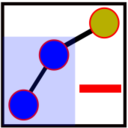
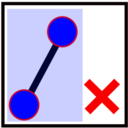
Add a small function - delete the whole branch

diff --git a/src/ManipulateCPs/ManipulateCPs.cpp b/src/ManipulateCPs/ManipulateCPs.cpp
@@ -74,11 +74,27 @@ void ManipulateCPs::AddOneCp(){
 
 }
 
-void ManipulateCPs::DeleteLastTwoCPs(Node_ *CurrNode)
+void ManipulateCPs::DeleteTheBranch(Node_ *CurrPressedNode)
 {
-  int CurrNodeIndex_m = CurrNode->getIndexM();
+  // int CurrNodeIndex_m = CurrNode->getIndexM();
+  // //1. update CPlist - erase the branch
+  // //CPlist.erase(CPlist.begin() + CurrNodeIndex_m);//The size will decrease
+  // vector<Vector3<float>> *changedBranch;
+  // changedBranch = &(CPlist[CurrNodeIndex_m]);
+  // changedBranch->clear(); //This size will not change and CPlist[CurrNodeIndex_m] will be empty.
+
+  // //2. change sliders
+  // emit PressNode(0, 0); 
+
+  // //3.remove two points in the scene.
+  // scene->removeItem(CurrNode);
+  // Node_ *forewardNode = CurrNode->getPrevNode();
+  // if (forewardNode != nullptr) scene->removeItem(forewardNode);
+  // Node_ *backwardNode = CurrNode->getNextNode();
+  // if (backwardNode != nullptr) scene->removeItem(backwardNode);
+
+  int CurrNodeIndex_m = CurrPressedNode->getIndexM();
   //1. update CPlist - erase the branch
-  //CPlist.erase(CPlist.begin() + CurrNodeIndex_m);//The size will decrease
   vector<Vector3<float>> *changedBranch;
   changedBranch = &(CPlist[CurrNodeIndex_m]);
   changedBranch->clear(); //This size will not change and CPlist[CurrNodeIndex_m] will be empty.
@@ -86,37 +102,29 @@ void ManipulateCPs::DeleteLastTwoCPs(Node_ *CurrNode)
   //2. change sliders
   emit PressNode(0, 0); 
 
-  //3.remove two points in the scene.
-  scene->removeItem(CurrNode);
-  Node_ *forewardNode = CurrNode->getPrevNode();
-  if (forewardNode != nullptr) scene->removeItem(forewardNode);
-  Node_ *backwardNode = CurrNode->getNextNode();
-  if (backwardNode != nullptr) scene->removeItem(backwardNode);
+  //3.remove all points and edges in the branch.
+  scene->removeItem(CurrPressedNode);
+  removeTwoEdgeOfNode(CurrPressedNode);
 
-  //4.remove edges of CurrNode
-  QVector<Edge*> EdgeList = CurrNode->getEdgeList();
-  for (Edge *edge : qAsConst(EdgeList)){
-    scene->removeItem(edge);
-    //does WholeEdgeList need remove edge? Seems doesn't.
+  Node_ *forewardNode = CurrPressedNode->getPrevNode();
+  while(forewardNode != nullptr){
+    scene->removeItem(forewardNode);
+    removeTwoEdgeOfNode(forewardNode);
+    forewardNode = forewardNode->getPrevNode();
   }
-
+  Node_ *backwardNode = CurrPressedNode->getNextNode();
+  while(backwardNode != nullptr){
+    scene->removeItem(backwardNode);
+    removeTwoEdgeOfNode(backwardNode);
+    backwardNode = backwardNode->getNextNode();
+  }
 }
 
 void ManipulateCPs::deleteCurrCp(){
   //update CPlist
   int CurrCPNum = CPlist[CurrNodeIndex_m][0][0] - 1;
-  /*if(CurrCPNum < 2){
-    QMessageBox::StandardButton reply;
-    reply = QMessageBox::question(this, "For your information", 
-    "There are only two CPs for this branch, Do you want to delete both of them?",
-                                  QMessageBox::Yes|QMessageBox::No);
-    if (reply == QMessageBox::Yes) {
-      //delete both of the two CPs, i.e., delete this branch
-      DeleteLastTwoCPs(CurrPressedNode);
-    } 
-    //else do nothing.
-  }*/
-  if(CurrCPNum == 0) DeleteLastTwoCPs(CurrPressedNode);
+ 
+  if(CurrCPNum == 0) DeleteTheBranch(CurrPressedNode);//only has one CP
   else
   {
     CPlist[CurrNodeIndex_m][0][0] = CurrCPNum;
@@ -146,12 +154,7 @@ void ManipulateCPs::deleteCurrCp(){
     emit PressNode(0, CPlist[CurrNodeIndex_m][0][1]); 
 
     scene->removeItem(CurrPressedNode);
-    //remove two edges of CurrPressedNode
-    QVector<Edge*> EdgeList = CurrPressedNode->getEdgeList();
-    for (Edge *edge : qAsConst(EdgeList)){
-      scene->removeItem(edge);
-      //does WholeEdgeList need remove edge? Seems doesn't.
-    }
+    removeTwoEdgeOfNode(CurrPressedNode);
     //add new edge and update prev/next node.
     Node_ *CurrPrevN = CurrPressedNode->getPrevNode();
     Node_ *CurrNextN = CurrPressedNode->getNextNode();
@@ -189,7 +192,7 @@ void ManipulateCPs::deleteMultiCp()
         int CurrCPNum = CPlist[CurrNodeIndex_m][0][0];
       
         if(CurrCPNum < 3)
-          DeleteLastTwoCPs(CurrPoint); //delete both of the two CPs, i.e., delete this branch
+          DeleteTheBranch(CurrPoint); //delete both of the two CPs, i.e., delete this branch
       
       }
         
@@ -201,6 +204,18 @@ void ManipulateCPs::deleteMultiCp()
   
 }
 
+void ManipulateCPs::deleteABranch()
+{
+  DeleteTheBranch(CurrPressedNode);
+}
+void ManipulateCPs::removeTwoEdgeOfNode (Node_ *CurrNode)
+{
+  QVector<Edge*> EdgeList = CurrNode->getEdgeList();
+  for (Edge *edge : qAsConst(EdgeList)){
+    scene->removeItem(edge);
+    //does WholeEdgeList need remove edge? Seems doesn't.
+  }
+}
 void ManipulateCPs::TranspCurrPoint(Node_ *node){
   
   MultiCPsDelete.push_back(node);

diff --git a/src/ManipulateCPs/CpViewer.cpp b/src/ManipulateCPs/CpViewer.cpp
@@ -39,6 +39,11 @@ CpViewer::CpViewer(int W, int H, QWidget *parent)
   DeleteMultiCPsBtn->setIconSize(QSize{32, 32}); 
   connect(DeleteMultiCPsBtn, &QPushButton::clicked, this, &CpViewer::DeleteMultiCPsBtn_press);
 
+  QPushButton *DeleteABranchBtn = new QPushButton { QIcon{":/images/DeleteABranch_icon.png"}, tr(""), this};
+  DeleteABranchBtn->setIconSize(QSize{32, 32}); 
+  connect(DeleteABranchBtn, &QPushButton::clicked, this, &CpViewer::DeleteABranchBtn_press);
+
+
   QPushButton *rotateCPsBtn = new QPushButton { QIcon{":/images/rotate_CPs.png"}, tr(""), this};
   rotateCPsBtn->setIconSize(QSize{32, 32}); 
   connect(rotateCPsBtn, &QPushButton::clicked, this, &CpViewer::rotateCPsBtn_press);
@@ -47,14 +52,14 @@ CpViewer::CpViewer(int W, int H, QWidget *parent)
   QPushButton *skelRecBtn = new QPushButton();
   skelRecBtn->setText("Reconstruct\n CC");
   //QPushButton *skelRecBtn = new QPushButton { QIcon{":/images/Skel_icon.png"}, tr(""), this};
-  skelRecBtn->setFixedSize(QSize{100, 38});//?
+  skelRecBtn->setFixedSize(QSize{95, 38});//?
   connect(skelRecBtn, &QPushButton::clicked, this, &CpViewer::ReconBtn_press);
   
 
   QPushButton *skelRecBtn_ = new QPushButton();
   skelRecBtn_->setText("Reconstruct\n Image");
   //QPushButton *skelRecBtn_ = new QPushButton { QIcon{":/images/Skel_icon.png"}, tr(""), this};
-  skelRecBtn_->setFixedSize(QSize{100, 38});//?
+  skelRecBtn_->setFixedSize(QSize{95, 38});//?
   connect(skelRecBtn_, &QPushButton::clicked, this, &CpViewer::ReconImageBtn_press);
 
   btnLayout->addWidget(showCPsBtn);
@@ -62,6 +67,7 @@ CpViewer::CpViewer(int W, int H, QWidget *parent)
   btnLayout->addWidget(AddCPsBtn);
   btnLayout->addWidget(DeleteCPsBtn);
   btnLayout->addWidget(DeleteMultiCPsBtn);
+  btnLayout->addWidget(DeleteABranchBtn);
   btnLayout->addWidget(rotateCPsBtn);
   btnLayout->addWidget(skelRecBtn);
   btnLayout->addWidget(skelRecBtn_);
@@ -141,6 +147,10 @@ void CpViewer::DeleteCPsBtn_press()
 void CpViewer::DeleteMultiCPsBtn_press()
 {
   manipulate_CPs->deleteMultiCp();
+}
+void CpViewer::DeleteABranchBtn_press()
+{
+  manipulate_CPs->deleteABranch();
 }
 void CpViewer::rotateCPsBtn_press()
 {

diff --git a/src/dmdProcess.cpp b/src/dmdProcess.cpp
@@ -730,8 +730,9 @@ int dmdProcess::computeSkeletons(float saliency_threshold, float hausdorff, FIEL
 }
 
 
-void dmdProcess::Init_indexingSkeletons(){
-    
+void dmdProcess::Init_indexingSkeletons(float SalVal, float HDval){
+    SalValForTree = SalVal;
+    HDvalForTree = HDval;
     float *c = OriginalImage->data();
     float *end = OriginalImage->data() + nPix;
     int min_elem = 1e5;
@@ -764,7 +765,7 @@ int dmdProcess::indexingSkeletons(FIELD<float> * CC, int intensity, int index){
     int seq = 0, x, y; 
     int SkelPoints = 0;
     
-    skelImp = computeSkeleton(intensity, CC, 0.5);//salThres needs to be improved, set by users.
+    skelImp = computeSkeleton(intensity, CC, SalValForTree);//salThres needs to be improved, set by users.
     
     //skel importance map or saliency map transforms to skel.
     skelCurr = new FIELD<float>(skelImp->dimX(), skelImp->dimY());
@@ -812,10 +813,9 @@ int dmdProcess::indexingSkeletons(FIELD<float> * CC, int intensity, int index){
         //IntensityOfNode.push_back(intensity);
         Inty_node.insert(make_pair(intensity, index));
         ////fit with spline///
-        float hausdorff = 0.002; //spline fitting error threshold
         //if(BranchSet.size()>0){
         //BSplineCurveFitterWindow3 spline;
-        spline.indexingSpline(BranchSet, hausdorff, diagonal, intensity, index);//
+        spline.indexingSpline(BranchSet, HDvalForTree, diagonal, intensity, index);//
         
         BranchSet.clear();//important.
         connection.clear();

diff --git a/src/TreeVisualiser/TreeVisualiser.cpp b/src/TreeVisualiser/TreeVisualiser.cpp
@@ -355,16 +355,23 @@ void TreeVisualiser::registerDMDSkeletons()
 {
   // const MTree &tree = treeWidget_->tree();
   const MTree &tree = treeWidget_->mtree();
-  
-  dmd_.Init_indexingSkeletons();
+
+  float salVal = mainWidget_->getSaliencyValue(); 
+  float HDval = mainWidget_->getHDValue(); 
+  dmd_.Init_indexingSkeletons(salVal, HDval);
   NumberOfSkeletonPointCache nskelCache;
   
   FIELD<float> *fnode = nullptr;
   uint32 nodeSequence = 0;
   
   nskelCache.openFile();
+ 
+  QTime time;
+  time.start();
+   
   tree.tranverse([&fnode, &nodeSequence, &nskelCache, this](NodePtr node) {
-    fnode = binImageToField(node->reconstruct(domain_));    
+    fnode = binImageToField(node->reconstruct(domain_));
+     
     int nskelPt = dmd_.indexingSkeletons(fnode, node->level(), node->id());
     nskelCache.store(node->id(), nskelPt);
 
@@ -373,6 +380,8 @@ void TreeVisualiser::registerDMDSkeletons()
         
     delete fnode;
   });
+  cout<<time.elapsed()<<" ms."<<endl;
+
   nskelCache.closeFile();
   dmdrecon_->readIndexingControlPoints(domain_.width(), domain_.height(), 
     dmd_.clear_color, dmd_.getInty_Node()); // pre-upload
@@ -607,7 +616,7 @@ void TreeVisualiser::skelRecBtn_press()
     if (selectedNodesForRec_[i]) 
       keptNodes.push_back(i);
   }
-
+  cout<<keptNodes.size()<<" keptNodes.size() "<<endl;
   QTime time;
   time.start();
    

diff --git a/include/dmdProcess.hpp b/include/dmdProcess.hpp
@@ -33,7 +33,7 @@ class dmdProcess {
     void removeIslands(float islandThreshold, FIELD<float> *sm);
     void LayerSelection(bool cumulative, int num_layers);
     int computeSkeletons(float saliency_threshold, float hausdorff, FIELD<float> *sm);
-    void Init_indexingSkeletons();
+    void Init_indexingSkeletons(float SalVal, float HDval);
     int indexingSkeletons(FIELD<float> * CC, int intensity, int index);
     //vector<int> getIntensityOfNode(){return IntensityOfNode;}
     multimap<int,int> getInty_Node(){return Inty_node;}
@@ -57,6 +57,7 @@ class dmdProcess {
     vector<int> gray_levels;
     multimap<int,int> Inty_node;
     vector<int> selectedIntensity;
+    float SalValForTree, HDvalForTree;
     //stringstream ofBuffer;
 };
 

diff --git a/src/ManipulateCPs/edge.cpp b/src/ManipulateCPs/edge.cpp
@@ -69,7 +69,10 @@ void Edge::paint(QPainter *painter, const QStyleOptionGraphicsItem *, QWidget *)
 
   // Draw the line itself
   //painter->setPen(QPen(Qt::red, 1, Qt::SolidLine, Qt::RoundCap, Qt::RoundJoin));
-  QColor qc = QColor::fromRgb(80*(colorI%3),50*(colorI/10),200*(colorI%2));//note: colorI should smaller than 60.
+  //QColor qc = QColor::fromRgb(80*(colorI%3),50*(colorI/10),200*(colorI%2));//note: colorI should smaller than 60.
+  
+  QColor qc = QColor(qrand()%255, qrand()%255, qrand()%255);
+
   if(thickerEdge)  painter->setPen(QPen(qc, 3, Qt::SolidLine, Qt::RoundCap, Qt::RoundJoin));
   else painter->setPen(QPen(qc, 1, Qt::SolidLine, Qt::RoundCap, Qt::RoundJoin));
   painter->drawLine(line);

diff --git a/src/dmdReconstruct.cpp b/src/dmdReconstruct.cpp
@@ -933,7 +933,7 @@ QImage dmdReconstruct::ReconstructMultiNode(bool interpolate, vector<int> nodesI
             for (auto const& it : Inty_node) { //for each graylevel(from small num to large num).
                 if(LastInty != it.first){//for each graylevel, only enter once.
                     LastInty = it.first;
-                    //cout<<"LastInty "<<LastInty<<endl;
+                    //cout<<"it.first "<<it.first<<endl;
                     if(action){//highlight
                         if(interpolate){
                             bool last_layer = false; 

diff --git a/include/ManipulateCPs/ManipulateCPs.hpp b/include/ManipulateCPs/ManipulateCPs.hpp
@@ -40,11 +40,13 @@ public:
   inline void setCPs(vector<vector<Vector3<float>>> CPs) {CPlist = CPs;}
   void deleteCurrCp();
   void deleteMultiCp();
+  void deleteABranch();
   void rotateCPsBtnPressed();
   void AddOneCp();
-  void DeleteLastTwoCPs(Node_ *CurrNode);
+  void DeleteTheBranch(Node_ *CurrPressedNode);
   inline bool getItemsUnselectionState() {return AllItemsUnselected;}
   inline bool getRotateCPsState() {return rotateCPs;}
+  void removeTwoEdgeOfNode (Node_ *CurrNode);
 
 public: 
 signals: 

diff --git a/include/MainWidget.hpp b/include/MainWidget.hpp
@@ -49,6 +49,9 @@ public:
   ReconMode reconMode() const { return reconMode_; }
   void setReconMode(ReconMode reconMode) { reconMode_ = reconMode; }
   inline bool GetInterpState(){return ThresCtl->getInterpState();}
+  inline float getSaliencyValue() {return ThresCtl->getSaliencyVal();}
+  inline float getHDValue() {return ThresCtl->getHDVal();}
+   
   inline TreeVisualiser *getTreeVis() {return treeVis_;};
 
 protected slots:

diff --git a/include/CustomWidgets/ThresholdControl.hpp b/include/CustomWidgets/ThresholdControl.hpp
@@ -16,6 +16,8 @@ public:
   ThresholdControl(QWidget *parent=nullptr);
   inline void readImgIntoSdmd(const char *c_str) { dmdProcess_.readFromFile(c_str); }
   inline bool getInterpState() {return InterpState;}
+  inline float getSaliencyVal() {return SaliencyVal;}
+  inline float getHDVal() {return HDVal;}
 
 protected:
   QLayout *createLayerThresholdLayout();

diff --git a/include/ManipulateCPs/CpViewer.hpp b/include/ManipulateCPs/CpViewer.hpp
@@ -33,6 +33,7 @@ protected slots:
   void AddCPsBtn_press(); 
   void DeleteCPsBtn_press();
   void DeleteMultiCPsBtn_press();
+  void DeleteABranchBtn_press();
   void rotateCPsBtn_press();
   
   void ChangeValueDisplay(int val, int degree);
